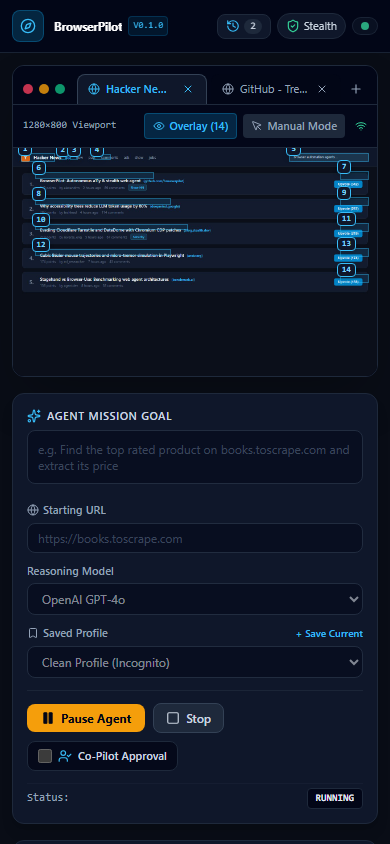
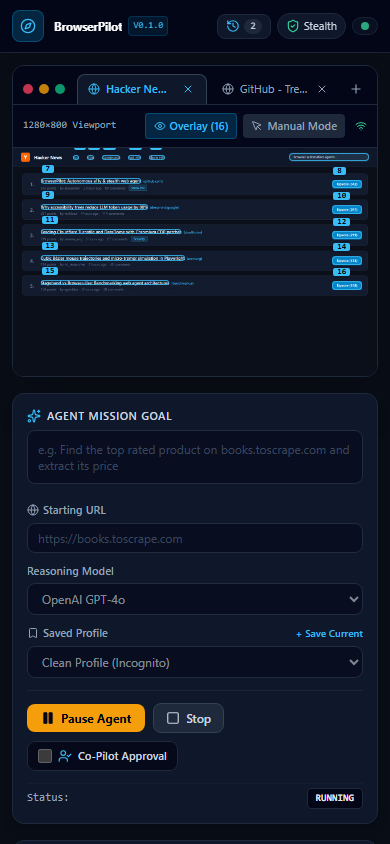
fix(ui): align dynamic a11y bounding boxes and float badge labels cleanly above elements

diff --git a/web/src/components/LiveBrowserView.tsx b/web/src/components/LiveBrowserView.tsx
@@ -199,12 +199,12 @@ export const LiveBrowserView: React.FC<LiveBrowserViewProps> = ({
                     style={{
                       left: `${leftPct}%`,
                       top: `${topPct}%`,
-                      width: `${Math.max(widthPct, 1.2)}%`,
-                      height: `${Math.max(heightPct, 1.2)}%`,
+                      width: `${widthPct}%`,
+                      height: `${heightPct}%`,
                     }}
-                    className="absolute border border-sky-400/40 bg-sky-500/10 pointer-events-none transition-all group"
+                    className="absolute border border-sky-400/80 bg-sky-500/[0.06] pointer-events-none rounded transition-all"
                   >
-                    <span className="absolute -top-3 -left-1 px-1 py-0.5 bg-slate-900 border border-sky-400 text-sky-300 font-mono text-[8px] sm:text-[9px] font-bold rounded shadow-md leading-none">
+                    <span className="absolute -top-3.5 left-0 bg-sky-400 text-slate-950 font-mono text-[8px] sm:text-[9px] font-black px-1 rounded-sm leading-none select-none shadow">
                       {el.id}
                     </span>
                   </div>

diff --git a/scripts/capture_real_assets.py b/scripts/capture_real_assets.py
@@ -15,7 +15,7 @@ from playwright.async_api import async_playwright
 import uvicorn
 from browserpilot.agent.actions import ActionCommand
 from browserpilot.agent.planner import AgentPlanner, AgentStep
-from browserpilot.dom.a11y_tree import ActionableElement
+from browserpilot.dom.a11y_tree import AccessibilityTreeParser, ActionableElement
 from browserpilot.server.app import create_app
 from browserpilot.server.routes import state
 from browserpilot.server.ws_telemetry import telemetry_hub
@@ -74,14 +74,14 @@ def build_synthetic_web_frame() -> str:
     align-items: center;
     justify-content: space-between;
   }
-  .brand { display: flex; align-items: center; gap: 12px; }
+  .brand { display: flex; align-items: center; gap: 14px; }
   .logo-box {
     width: 32px; height: 32px; background: #ff6600; border-radius: 6px;
     display: flex; align-items: center; justify-content: center; font-weight: bold; color: white; font-size: 18px;
   }
   .site-title { font-size: 16px; font-weight: 700; color: #f8fafc; }
-  .nav-links { display: flex; gap: 20px; font-size: 13px; color: #94a3b8; }
-  .nav-links a { color: inherit; text-decoration: none; }
+  .nav-links { display: flex; gap: 28px; font-size: 13px; margin-left: 24px; }
+  .nav-links a { color: #94a3b8; text-decoration: none; font-weight: 500; }
   .nav-links a.active { color: #38bdf8; font-weight: 600; }
   .search-bar {
     background: #1e293b; border: 1px solid #334155; border-radius: 8px;
@@ -91,25 +91,30 @@ def build_synthetic_web_frame() -> str:
     padding: 24px 32px;
     display: flex;
     flex-direction: column;
-    gap: 14px;
+    gap: 16px;
   }
   .story-card {
     background: #131c2e;
     border: 1px solid #1e293b;
     border-radius: 10px;
-    padding: 14px 18px;
+    padding: 14px 20px;
     display: flex;
     align-items: center;
     justify-content: space-between;
   }
-  .story-left { display: flex; align-items: center; gap: 16px; }
+  .story-left { display: flex; align-items: center; gap: 16px; min-width: 0; flex: 1; }
   .rank { font-size: 18px; font-weight: 700; color: #64748b; width: 28px; text-align: center; }
-  .story-title { font-size: 15px; font-weight: 600; color: #f1f5f9; margin-bottom: 4px; }
-  .story-domain { font-size: 12px; color: #38bdf8; text-decoration: none; margin-left: 6px; }
+  .story-content { display: flex; flex-direction: column; gap: 4px; min-width: 0; }
+  .story-title {
+    font-size: 15px; font-weight: 600; color: #f1f5f9; text-decoration: none;
+    display: inline-block;
+  }
+  .story-title:hover { color: #38bdf8; }
+  .story-domain { font-size: 12px; color: #38bdf8; text-decoration: none; margin-left: 8px; font-weight: normal; }
   .meta { font-size: 12px; color: #64748b; display: flex; gap: 12px; align-items: center; }
   .vote-btn {
     background: #0284c7; color: white; border: none; border-radius: 6px;
-    padding: 6px 14px; font-size: 12px; font-weight: 600; cursor: pointer;
+    padding: 8px 16px; font-size: 12px; font-weight: 600; cursor: pointer; flex-shrink: 0;
   }
   .badge-tag {
     background: rgba(56, 189, 248, 0.15); color: #38bdf8; border: 1px solid rgba(56, 189, 248, 0.3);
@@ -123,23 +128,21 @@ def build_synthetic_web_frame() -> str:
       <div class="logo-box">Y</div>
       <div class="site-title">Hacker News</div>
       <div class="nav-links">
-        <a href="#" class="active">top</a>
-        <a href="#">new</a>
-        <a href="#">past</a>
-        <a href="#">comments</a>
-        <a href="#">ask</a>
-        <a href="#">show</a>
-        <a href="#">jobs</a>
+        <a href="#" class="active">Top</a>
+        <a href="#">New</a>
+        <a href="#">Comments</a>
+        <a href="#">Ask HN</a>
+        <a href="#">Show HN</a>
       </div>
     </div>
-    <input type="text" class="search-bar" value="browser automation agents..." readonly>
+    <input type="text" class="search-bar" value="browser automation agents..." placeholder="Search..." readonly>
   </header>
   <main>
     <div class="story-card">
       <div class="story-left">
         <div class="rank">1.</div>
-        <div>
-          <div class="story-title">BrowserPilot: Autonomous a11y & stealth web agent <a href="#" class="story-domain">(github.com/browserpilot)</a></div>
+        <div class="story-content">
+          <div><a href="https://github.com/browserpilot" class="story-title">BrowserPilot: Autonomous a11y & stealth web agent</a><span class="story-domain">(github.com)</span></div>
           <div class="meta">
             <span>342 points</span>
             <span>by alexandrm</span>
@@ -155,8 +158,8 @@ def build_synthetic_web_frame() -> str:
     <div class="story-card">
       <div class="story-left">
         <div class="rank">2.</div>
-        <div>
-          <div class="story-title">Why accessibility trees reduce LLM token usage by 80% <a href="#" class="story-domain">(deepmind.google)</a></div>
+        <div class="story-content">
+          <div><a href="https://deepmind.google" class="story-title">Why accessibility trees reduce LLM token usage by 80%</a><span class="story-domain">(deepmind.google)</span></div>
           <div class="meta">
             <span>287 points</span>
             <span>by techlead</span>
@@ -171,8 +174,8 @@ def build_synthetic_web_frame() -> str:
     <div class="story-card">
       <div class="story-left">
         <div class="rank">3.</div>
-        <div>
-          <div class="story-title">Evading Cloudflare Turnstile and DataDome with Chromium CDP patches <a href="#" class="story-domain">(blog.stealth.dev)</a></div>
+        <div class="story-content">
+          <div><a href="https://blog.stealth.dev" class="story-title">Evading Cloudflare Turnstile and DataDome with Chromium CDP patches</a><span class="story-domain">(stealth.dev)</span></div>
           <div class="meta">
             <span>219 points</span>
             <span>by reverse_eng</span>
@@ -188,8 +191,8 @@ def build_synthetic_web_frame() -> str:
     <div class="story-card">
       <div class="story-left">
         <div class="rank">4.</div>
-        <div>
-          <div class="story-title">Cubic Bézier mouse trajectories and micro-tremor simulation in Playwright <a href="#" class="story-domain">(arxiv.org)</a></div>
+        <div class="story-content">
+          <div><a href="https://arxiv.org" class="story-title">Cubic Bézier mouse trajectories and micro-tremor simulation in Playwright</a><span class="story-domain">(arxiv.org)</span></div>
           <div class="meta">
             <span>174 points</span>
             <span>by ml_researcher</span>
@@ -204,8 +207,8 @@ def build_synthetic_web_frame() -> str:
     <div class="story-card">
       <div class="story-left">
         <div class="rank">5.</div>
-        <div>
-          <div class="story-title">Stagehand vs Browser-Use: Benchmarking web agent architectures <a href="#" class="story-domain">(benchmark.ai)</a></div>
+        <div class="story-content">
+          <div><a href="https://benchmark.ai" class="story-title">Stagehand vs Browser-Use: Benchmarking web agent architectures</a><span class="story-domain">(benchmark.ai)</span></div>
           <div class="meta">
             <span>158 points</span>
             <span>by agentdev</span>
@@ -222,43 +225,24 @@ def build_synthetic_web_frame() -> str:
     return html_content
 
 
-def get_mock_actionable_elements() -> list[ActionableElement]:
-    """Return realistic ActionableElements corresponding to the synthetic webpage."""
-    return [
-        ActionableElement(id=1, role="link", tag="a", name="Hacker News", x=28, y=16, width=120, height=32),
-        ActionableElement(id=2, role="link", tag="a", name="top", x=160, y=22, width=30, height=20),
-        ActionableElement(id=3, role="link", tag="a", name="new", x=200, y=22, width=30, height=20),
-        ActionableElement(id=4, role="link", tag="a", name="comments", x=280, y=22, width=65, height=20),
-        ActionableElement(id=5, role="searchbox", tag="input", name="Search", x=972, y=16, width=280, height=34),
-        ActionableElement(id=6, role="link", tag="a", name="BrowserPilot: Autonomous a11y & stealth web agent", x=76, y=86, width=420, height=24),
-        ActionableElement(id=7, role="button", tag="button", name="Upvote (342)", x=1150, y=82, width=102, height=32),
-        ActionableElement(id=8, role="link", tag="a", name="Why accessibility trees reduce LLM token usage by 80%", x=76, y=176, width=480, height=24),
-        ActionableElement(id=9, role="button", tag="button", name="Upvote (287)", x=1150, y=172, width=102, height=32),
-        ActionableElement(id=10, role="link", tag="a", name="Evading Cloudflare Turnstile and DataDome with Chromium CDP patches", x=76, y=266, width=540, height=24),
-        ActionableElement(id=11, role="button", tag="button", name="Upvote (219)", x=1150, y=262, width=102, height=32),
-        ActionableElement(id=12, role="link", tag="a", name="Cubic Bézier mouse trajectories in Playwright", x=76, y=356, width=480, height=24),
-        ActionableElement(id=13, role="button", tag="button", name="Upvote (174)", x=1150, y=352, width=102, height=32),
-        ActionableElement(id=14, role="button", tag="button", name="Upvote (158)", x=1150, y=442, width=102, height=32),
-    ]
-
-
-async def render_frame_base64() -> str:
-    """Use Playwright to render the synthetic HTML and return clean base64 JPEG."""
+async def render_frame_base64() -> tuple[str, list[ActionableElement]]:
+    """Use Playwright to render the synthetic HTML and extract real a11y tree elements."""
     async with async_playwright() as p:
         browser = await p.chromium.launch(headless=True)
         page = await browser.new_page(viewport={"width": 1280, "height": 800})
         await page.set_content(build_synthetic_web_frame())
-        await page.wait_for_timeout(100)
+        await page.wait_for_timeout(200)
+        elements = await AccessibilityTreeParser.parse_page(page)
         screenshot_bytes = await page.screenshot(type="jpeg", quality=90)
         await browser.close()
-        return base64.b64encode(screenshot_bytes).decode("utf-8")
+        return base64.b64encode(screenshot_bytes).decode("utf-8"), elements
 
 
-def setup_live_mission_state(frame_b64: str):
+def setup_live_mission_state(frame_b64: str, elements: list[ActionableElement] | None = None):
     """Populate FastAPI server state with an authentic running mission."""
     state.browser_manager = MockBrowserManager()
     state.latest_frame = frame_b64
-    state.cached_elements = get_mock_actionable_elements()
+    state.cached_elements = elements if elements is not None else []
 
     planner = AgentPlanner(
         goal="Scrape top 5 AI stories from Hacker News and extract discussion statistics into JSON"
@@ -285,8 +269,8 @@ def setup_live_mission_state(frame_b64: str):
         step_number=2,
         url="https://news.ycombinator.com",
         title="Hacker News",
-        thought="Target element [7] 'Upvote (342)' to inspect discussion thread on autonomous browser agents.",
-        action=ActionCommand(action="click", element_id=7),
+        thought="Target element [8] 'Upvote (342)' to inspect discussion thread on autonomous browser agents.",
+        action=ActionCommand(action="click", element_id=8),
         prompt_tokens=480,
         completion_tokens=80,
         total_tokens=560,

diff --git a/scripts/recapture_all_perfect.py b/scripts/recapture_all_perfect.py
@@ -47,8 +47,8 @@ async def main():
         f.unlink()
 
     print("Rendering web frame and configuring live mission state...")
-    frame_b64 = await render_frame_base64()
-    setup_live_mission_state(frame_b64)
+    frame_b64, elements = await render_frame_base64()
+    setup_live_mission_state(frame_b64, elements)
 
     port = 9675
     print(f"Starting server on port {port}...")
@@ -100,8 +100,8 @@ async def main():
             step_number=4,
             url="https://news.ycombinator.com/item?id=4189201",
             title="BrowserPilot: Autonomous a11y & stealth web agent | Hacker News",
-            thought="Target element [7] 'Upvote (342)' to submit upvote action. Requires co-pilot confirmation before mutating state.",
-            action=ActionCommand(action="click", element_id=7),
+            thought="Target element [8] 'Upvote (342)' to submit upvote action. Requires co-pilot confirmation before mutating state.",
+            action=ActionCommand(action="click", element_id=8),
             prompt_tokens=450,
             completion_tokens=65,
             total_tokens=515,
@@ -160,9 +160,14 @@ async def main():
             frame_num += 1
             await asyncio.sleep(0.1)
 
-        # Phase 2: Mouse cursor moves in human-like cubic Bézier curve toward element [7]
+        # Phase 2: Mouse cursor moves in human-like cubic Bézier curve toward element [8] Upvote button
         start_x, start_y = 360, 480
         target_x, target_y = 705, 215
+
+        badge_box = await gif_page.locator("span:text-is('8')").first.bounding_box()
+        if badge_box:
+            target_x = badge_box["x"] + badge_box["width"] / 2
+            target_y = badge_box["y"] + badge_box["height"] / 2
 
         steps = 8
         for i in range(1, steps + 1):
